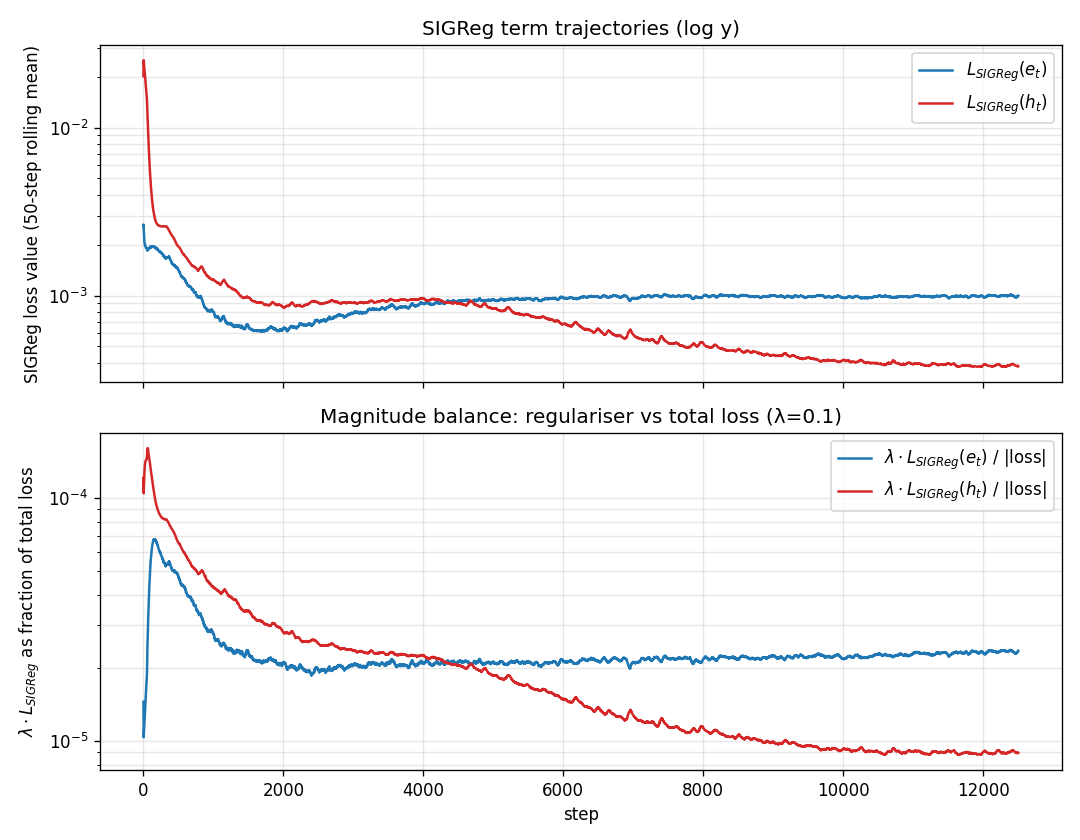
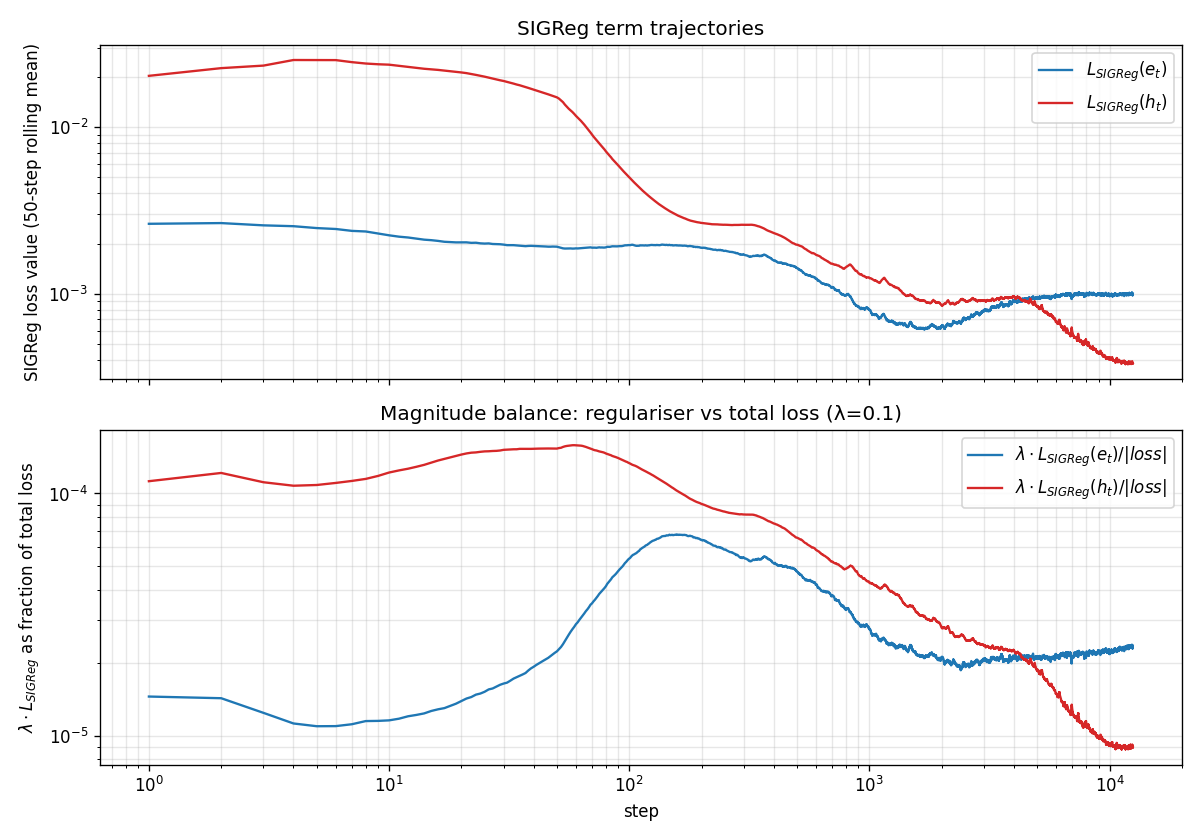
exp(#355): log-log axes on loss / uniformity / sigreg_e plots
build_report.py now sets xscale/yscale=log on loss_curve, uniformity (per
panel; drops the [0,1] linear ylim and sharey), and a new
plot_sigreg_e_inspection helper that regenerates sigreg_e_inspection.png
the same way the ad-hoc script did but on log-log instead of log-y only.

diff --git a/experiments/2026-06-20_lejepa_sigreg/scripts/build_report.py b/experiments/2026-06-20_lejepa_sigreg/scripts/build_report.py
@@ -149,7 +149,8 @@ def plot_loss_curves(sigreg_csv: Path, ema_csv: Path | None, cpc_csv: Path | Non
                 label=ARM_LABEL["cpc_enc3"], color=ARM_COLOR["cpc_enc3"], lw=1.5)
     ax.set_xlabel("step"); ax.set_ylabel("loss (50-step rolling mean)")
     ax.set_title("Training loss")
-    ax.legend(); ax.grid(alpha=0.3)
+    ax.set_xscale("log"); ax.set_yscale("log")
+    ax.legend(); ax.grid(alpha=0.3, which="both")
     fig.tight_layout(); fig.savefig(out, dpi=120); plt.close(fig)
 
 
@@ -157,7 +158,7 @@ def plot_uniformity(sigreg_csv: Path, ema_csv: Path | None, cpc_csv: Path | None
     s = pd.read_csv(sigreg_csv)
     e = _load_concat(ema_csv)
     c = _load_concat(cpc_csv)
-    fig, axes = plt.subplots(1, 2, figsize=(13, 4.5), sharey=True)
+    fig, axes = plt.subplots(1, 2, figsize=(13, 4.5))
     sig_lab = ARM_LABEL["sigreg_enc3"]
     ema_lab = ARM_LABEL["ema_enc3"]
     cpc_lab = ARM_LABEL["cpc_enc3"]
@@ -178,9 +179,38 @@ def plot_uniformity(sigreg_csv: Path, ema_csv: Path | None, cpc_csv: Path | None
         ax.set_xlabel("step")
         ax.set_ylabel("effective dimensionality")
         ax.set_title(f"u_{kind} ({'cross-batch' if kind=='batch' else 'cross-time'})")
-        ax.set_ylim(0, 1)
-        ax.legend(fontsize=7); ax.grid(alpha=0.3)
+        ax.set_xscale("log"); ax.set_yscale("log")
+        ax.legend(fontsize=7); ax.grid(alpha=0.3, which="both")
     fig.suptitle("Uniformity (cos²-based dim_usage; clipped to [1/K, 1])")
+    fig.tight_layout(); fig.savefig(out, dpi=120); plt.close(fig)
+
+
+def plot_sigreg_e_inspection(sigreg_csv: Path, out: Path, lam: float = 0.1):
+    s = pd.read_csv(sigreg_csv)
+    step = s["step"]
+    se = s["sigreg_e"].rolling(50, min_periods=1).mean()
+    sh = s["sigreg_h"].rolling(50, min_periods=1).mean()
+    loss_abs = s["loss"].abs().rolling(50, min_periods=1).mean()
+    re = (lam * s["sigreg_e"] / s["loss"].abs()).rolling(50, min_periods=1).mean()
+    rh = (lam * s["sigreg_h"] / s["loss"].abs()).rolling(50, min_periods=1).mean()
+    fig, (ax1, ax2) = plt.subplots(2, 1, figsize=(10, 7), sharex=True)
+    ax1.plot(step, se, label=r"$L_{SIGReg}(e_t)$",
+             color=ARM_COLOR["ema_enc3"], lw=1.4)
+    ax1.plot(step, sh, label=r"$L_{SIGReg}(h_t)$",
+             color=ARM_COLOR["sigreg_enc3"], lw=1.4)
+    ax1.set_ylabel("SIGReg loss value (50-step rolling mean)")
+    ax1.set_title("SIGReg term trajectories")
+    ax1.set_xscale("log"); ax1.set_yscale("log")
+    ax1.legend(); ax1.grid(alpha=0.3, which="both")
+    ax2.plot(step, re, label=r"$\lambda \cdot L_{SIGReg}(e_t) / |loss|$",
+             color=ARM_COLOR["ema_enc3"], lw=1.4)
+    ax2.plot(step, rh, label=r"$\lambda \cdot L_{SIGReg}(h_t) / |loss|$",
+             color=ARM_COLOR["sigreg_enc3"], lw=1.4)
+    ax2.set_xlabel("step")
+    ax2.set_ylabel(r"$\lambda \cdot L_{SIGReg}$ as fraction of total loss")
+    ax2.set_title(f"Magnitude balance: regulariser vs total loss (λ={lam})")
+    ax2.set_xscale("log"); ax2.set_yscale("log")
+    ax2.legend(); ax2.grid(alpha=0.3, which="both")
     fig.tight_layout(); fig.savefig(out, dpi=120); plt.close(fig)
 
 
@@ -358,6 +388,7 @@ if __name__ == "__main__":
     rows = write_gm_table(results, results / "gm_table.csv", args.sigreg_tag)
     plot_loss_curves(sigreg_csv, args.ema_csv, args.cpc_csv, plots / "loss_curve.png")
     plot_uniformity(sigreg_csv, args.ema_csv, args.cpc_csv, plots / "uniformity.png")
+    plot_sigreg_e_inspection(sigreg_csv, plots / "sigreg_e_inspection.png")
     plot_gm_bars(rows, plots / "gm_rel_mase.png")
     plot_perdomain_radar(
         sig_results=results, ema_results=args.ema_results, cpc_results=args.cpc_results,

diff --git a/reports/2026-06-20_lejepa_sigreg/lejepa_sigreg.md b/reports/2026-06-20_lejepa_sigreg/lejepa_sigreg.md
@@ -42,7 +42,7 @@ GM-MASE (geometric mean of per-config `MASE[0.5]` across 97 configs; lower = bet
 
 ## SIGReg term magnitudes
 
-![SIGReg term trajectories on log scale (upper) and their ratio to total loss (lower), 50-step rolling means](plots/sigreg_e_inspection.png)
+![SIGReg term trajectories (upper) and their ratio to total loss (lower), 50-step rolling means](plots/sigreg_e_inspection.png)
 
 ## Protocol
 
